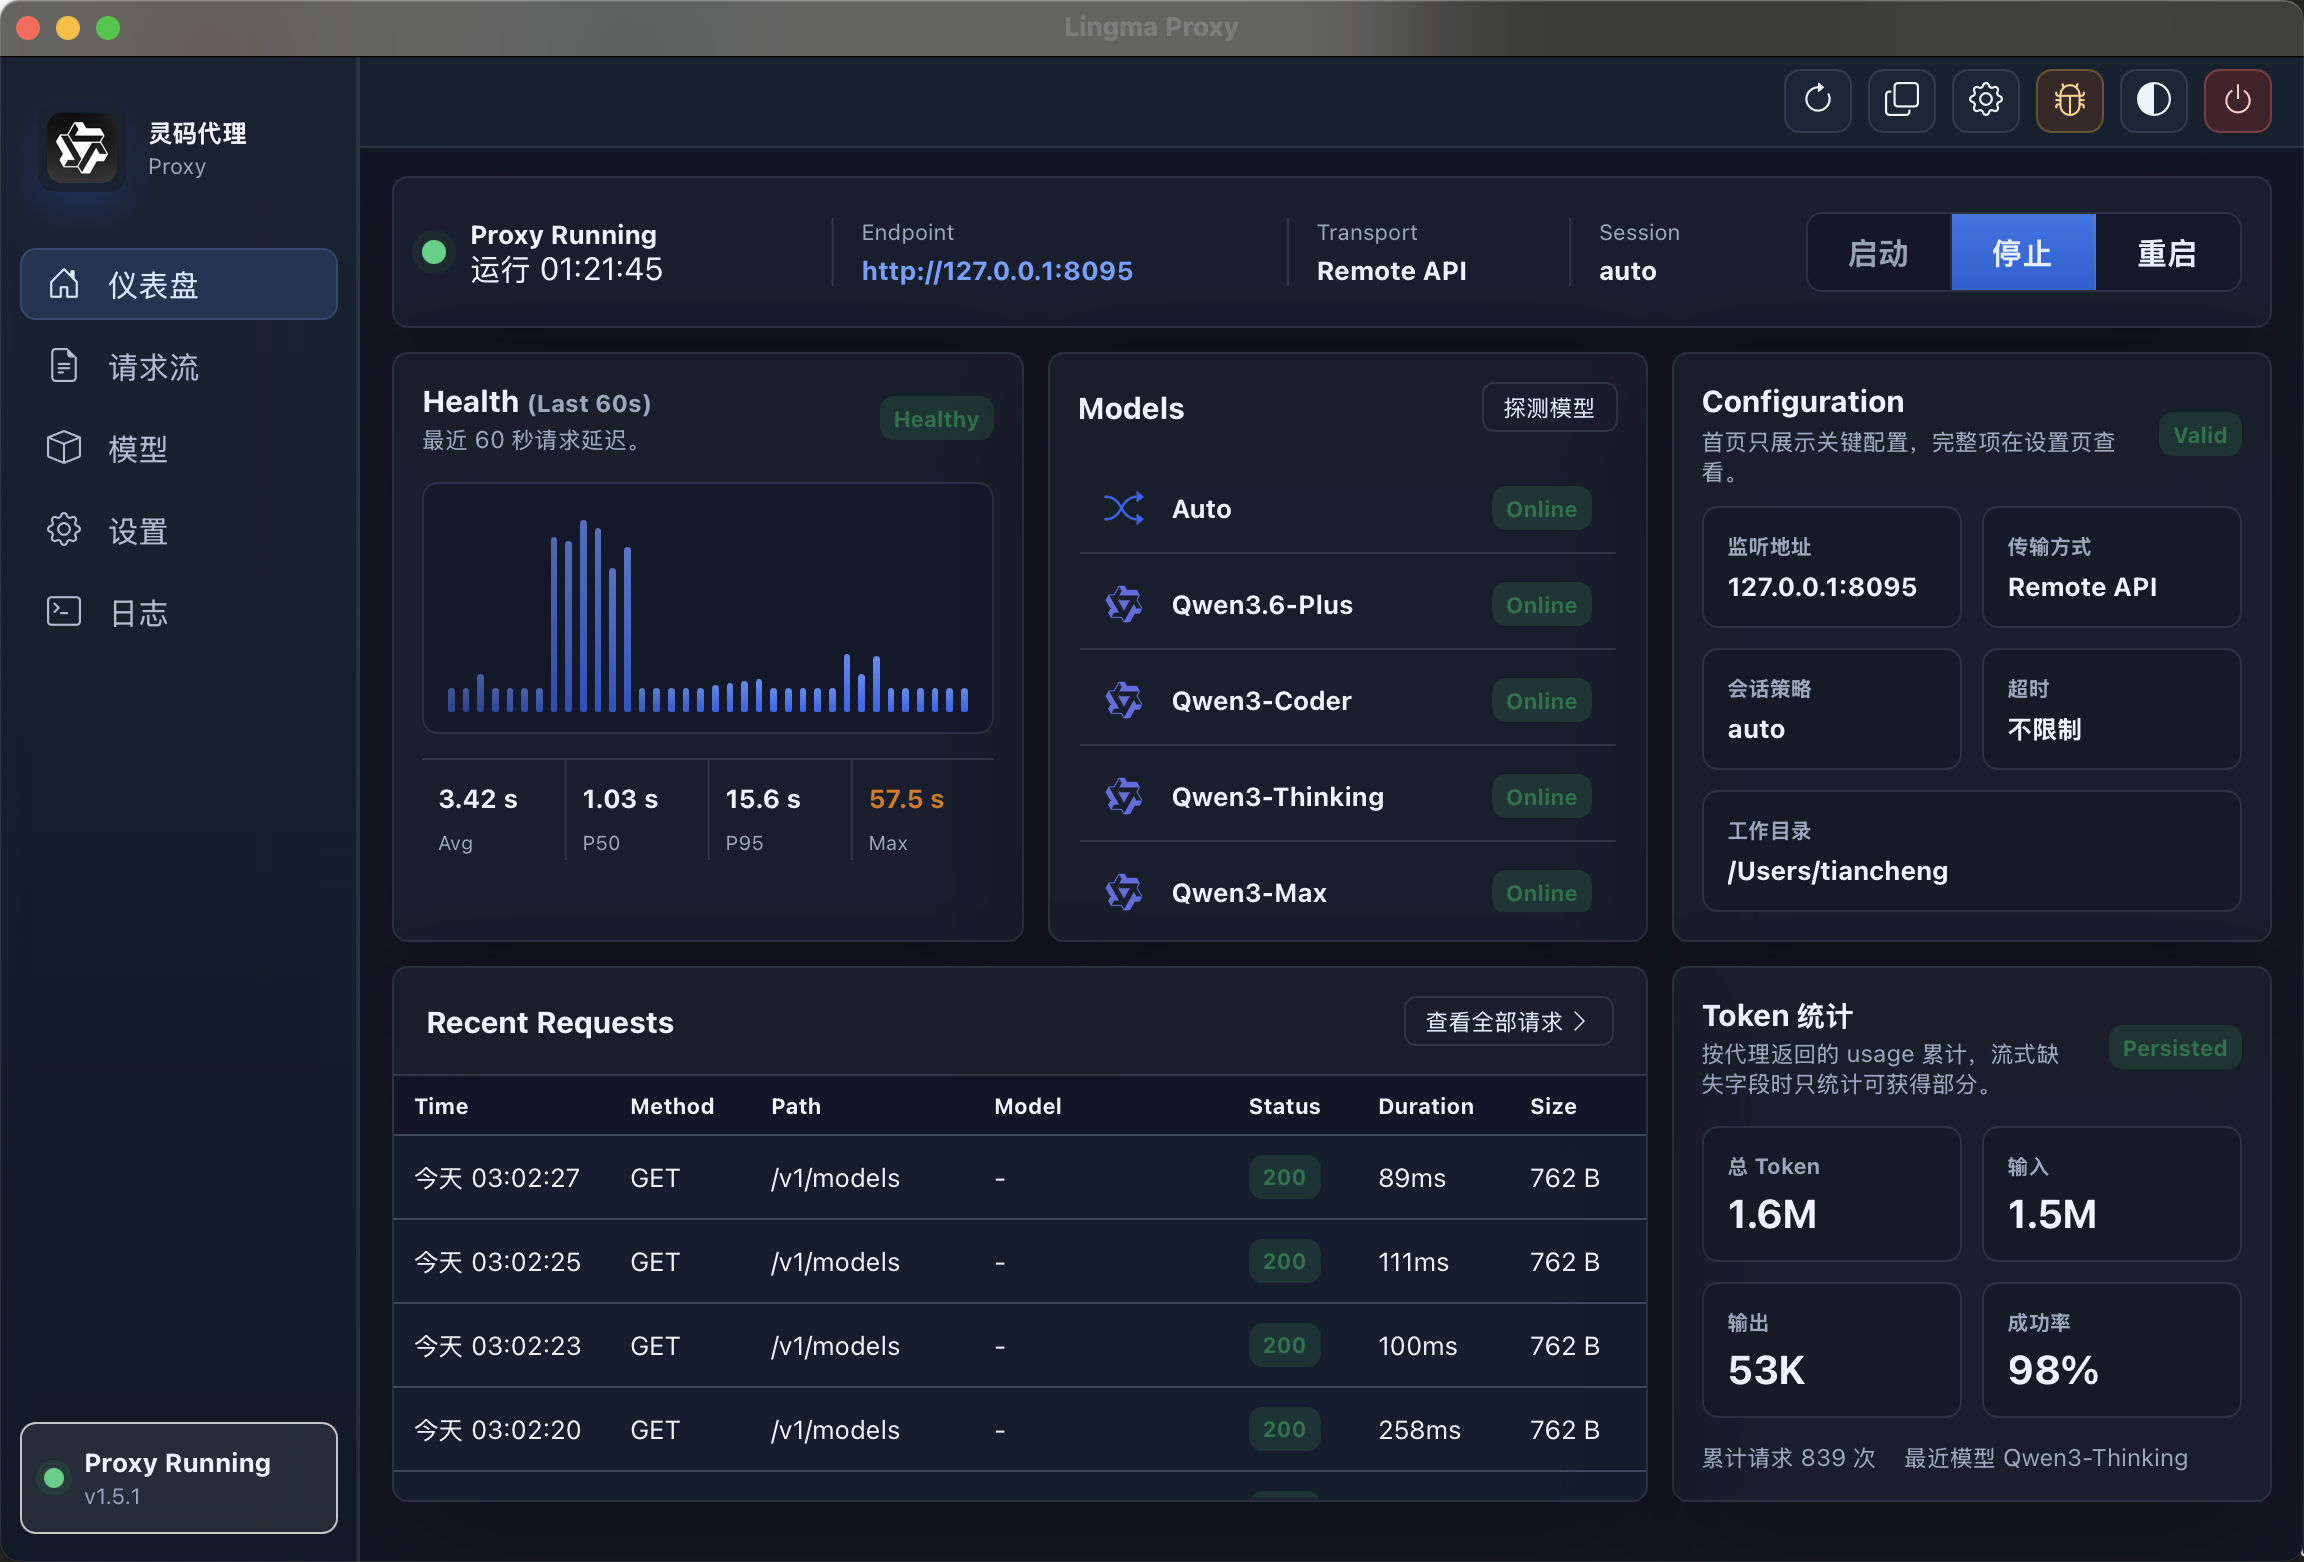
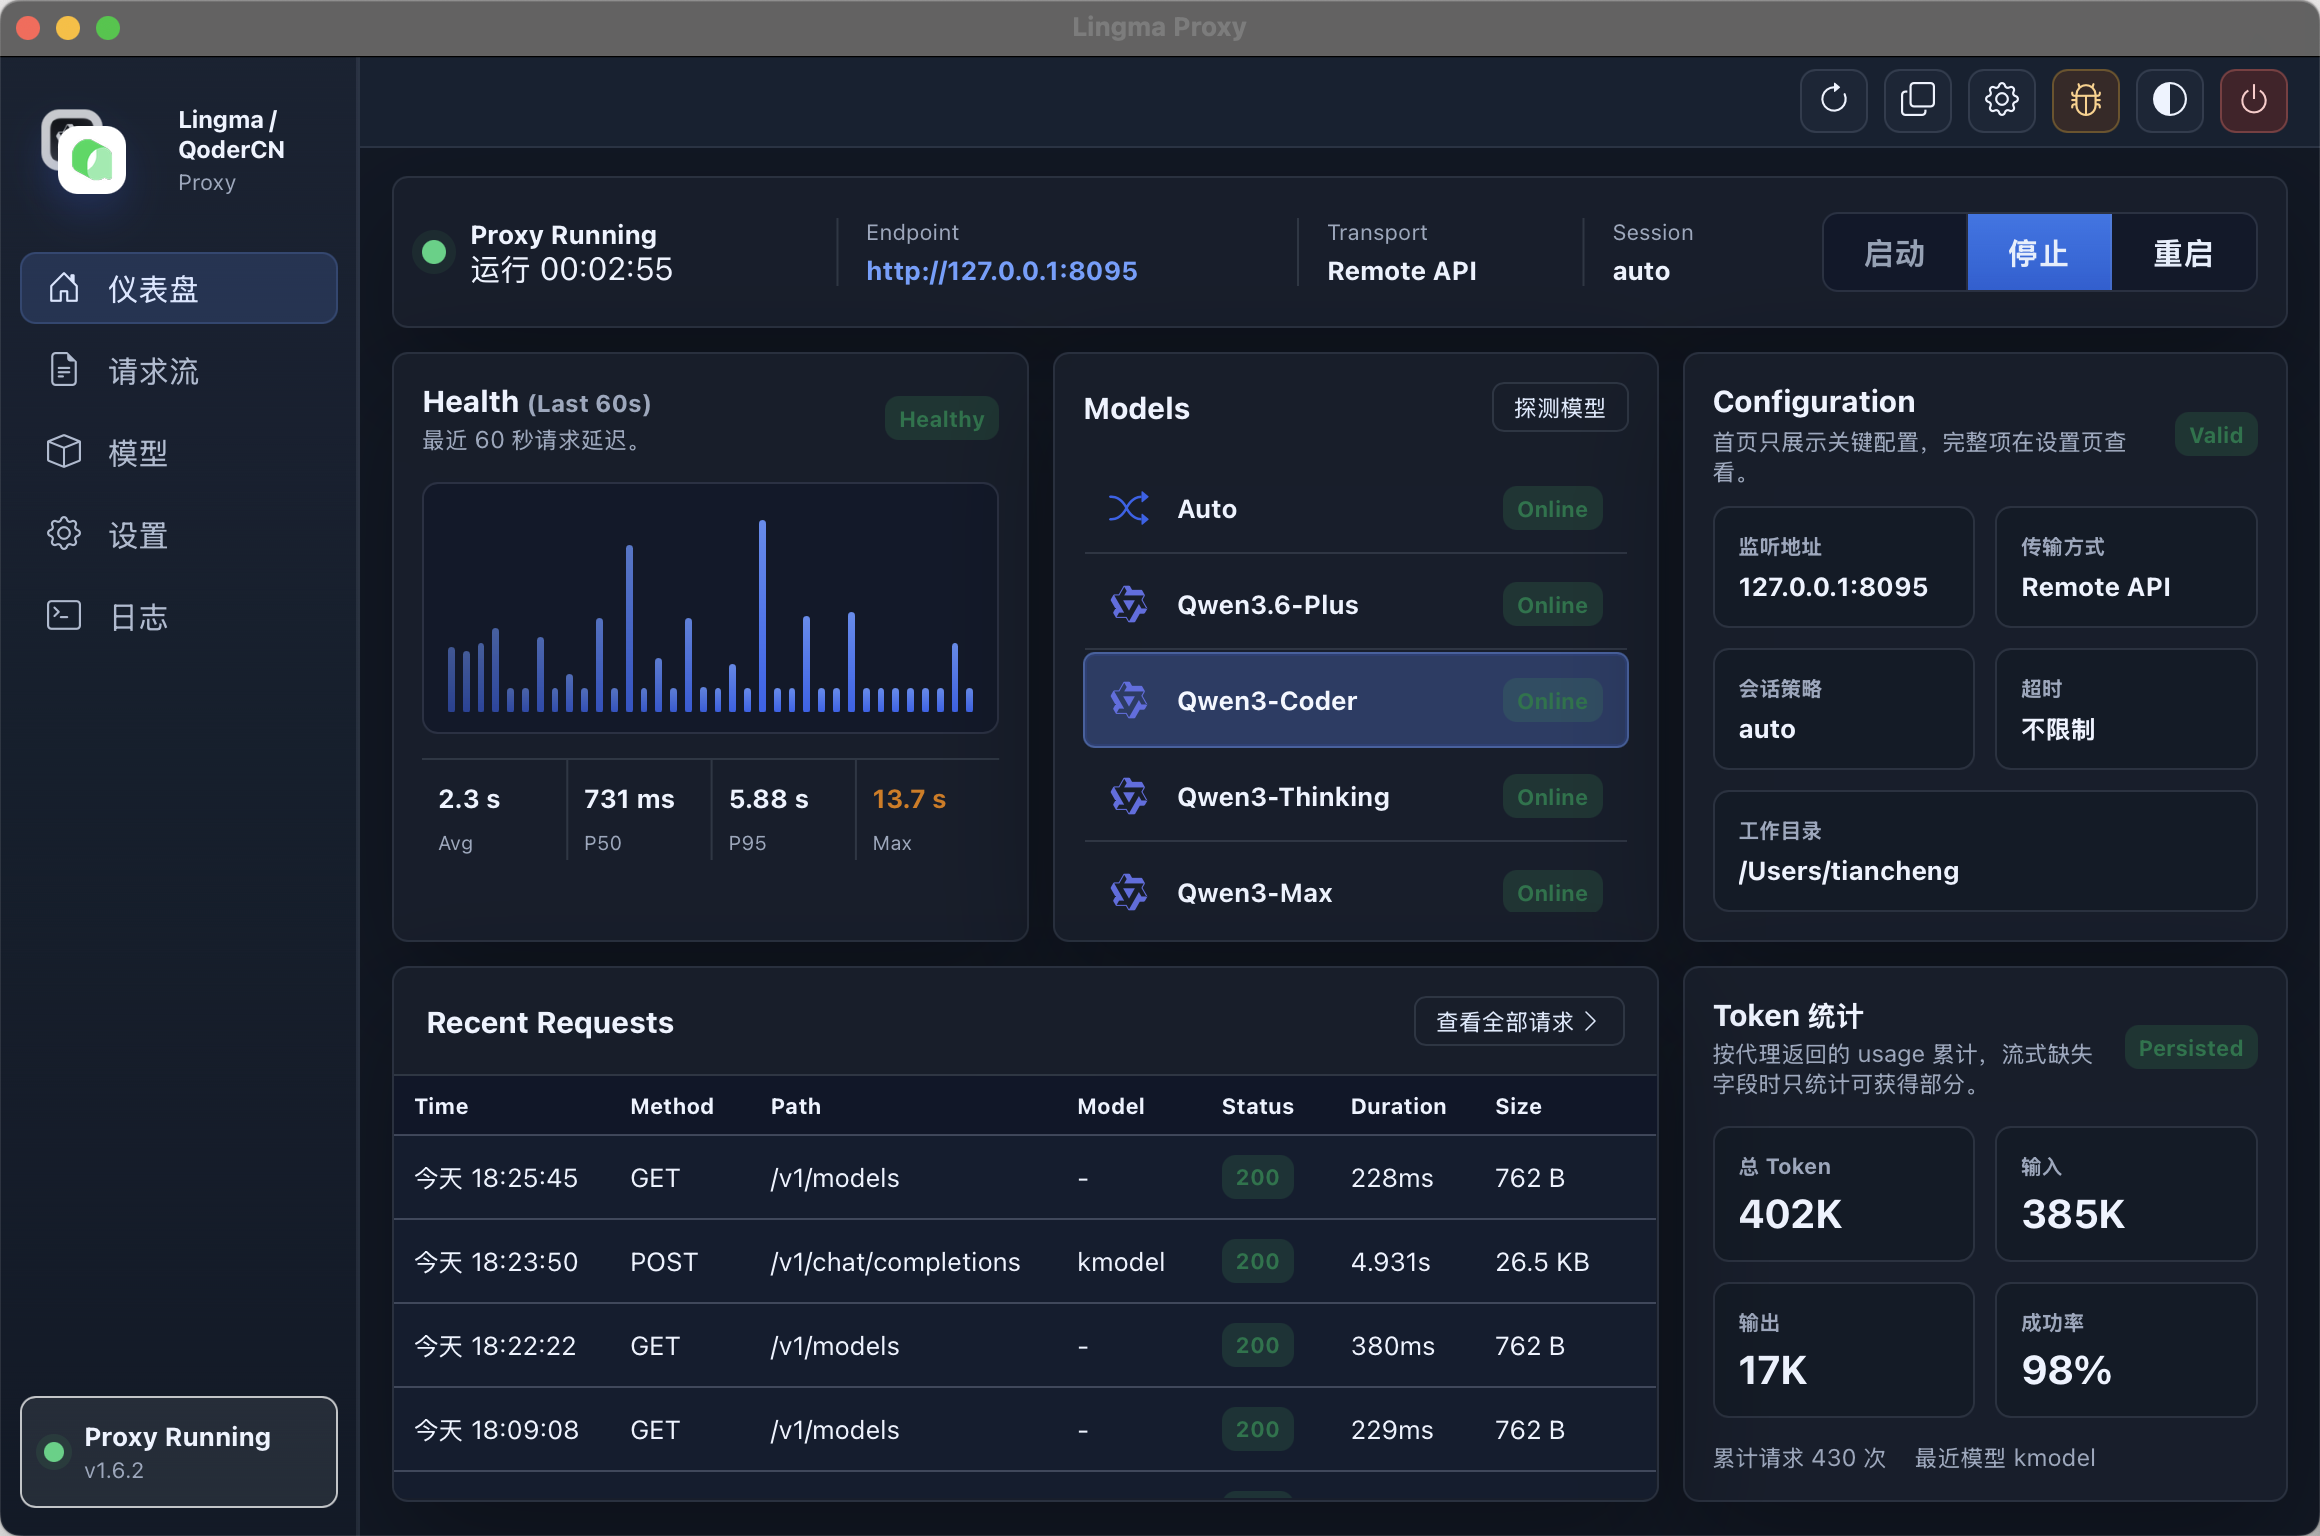
chore: refresh screenshots and request table headers

diff --git a/desktop/frontend/src/views/Requests.vue b/desktop/frontend/src/views/Requests.vue
@@ -281,12 +281,12 @@ onUnmounted(() => {
         <table class="data-table">
           <thead>
             <tr>
-              <th>时间</th>
-              <th>方法</th>
-              <th>路径</th>
-              <th>模型</th>
-              <th>状态</th>
-              <th>耗时</th>
+              <th>Time</th>
+              <th>Method</th>
+              <th>Path</th>
+              <th>Model</th>
+              <th>Status</th>
+              <th>Duration</th>
               <th>Size</th>
             </tr>
           </thead>
